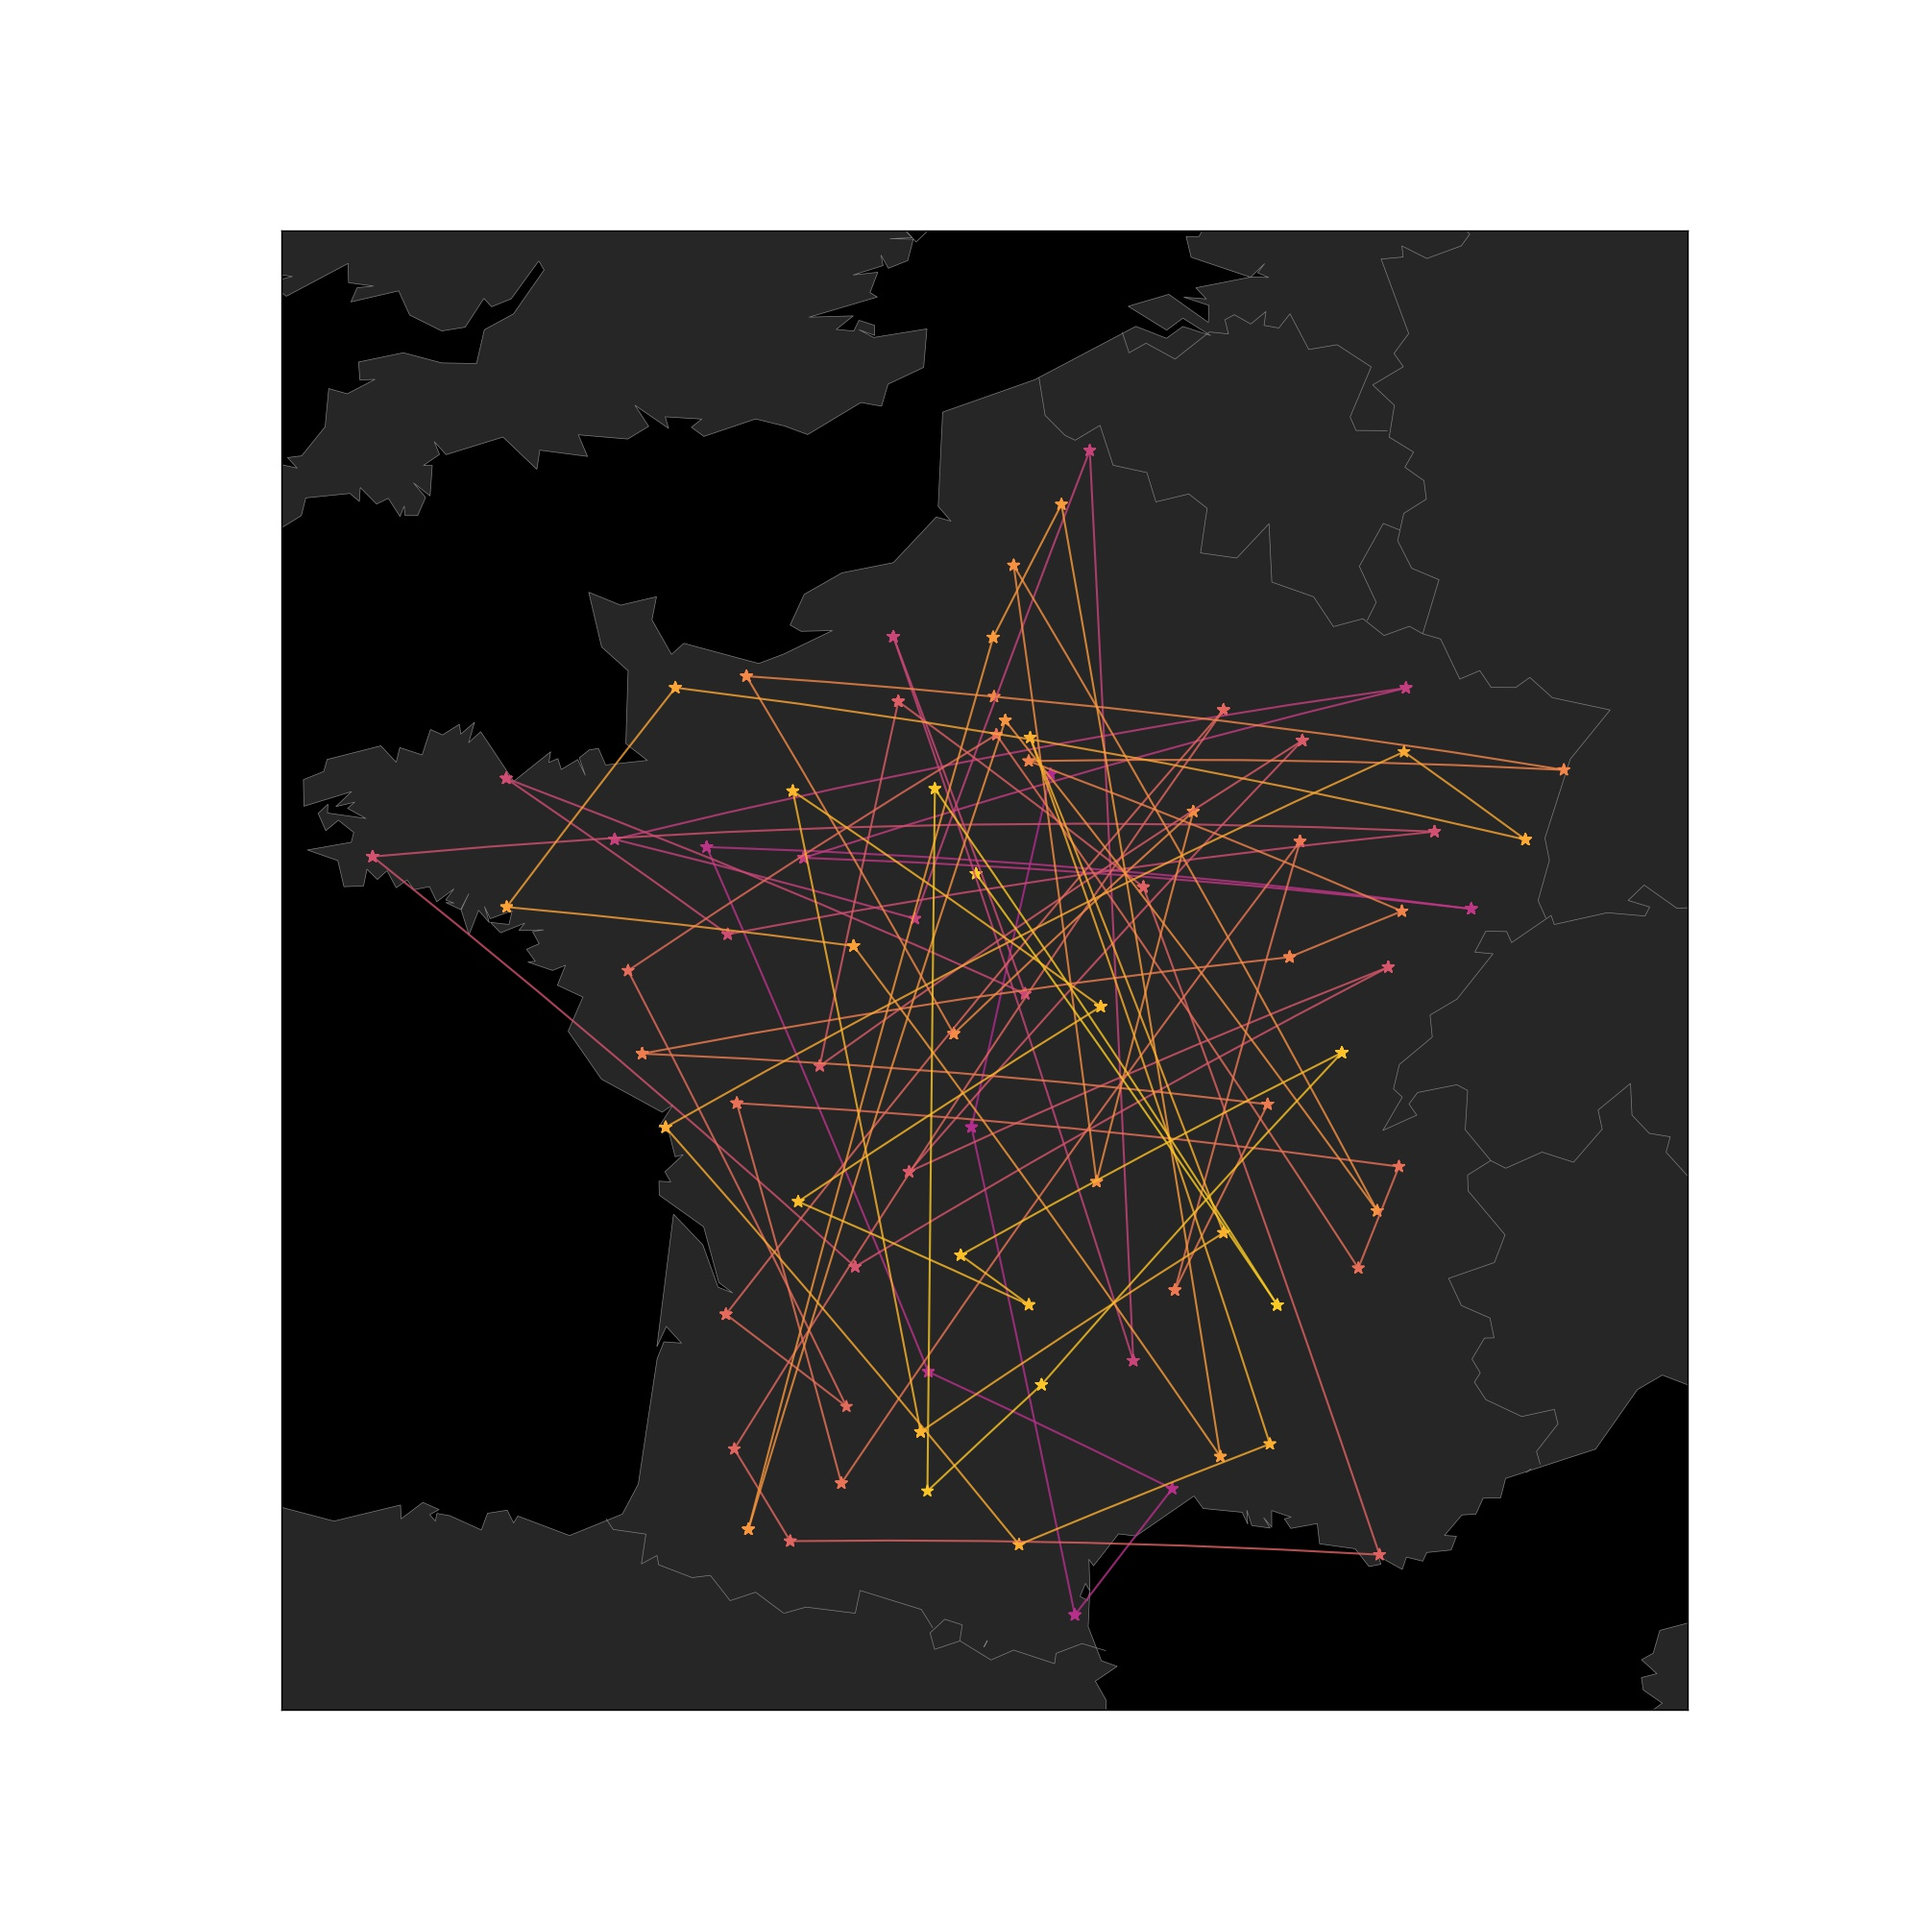
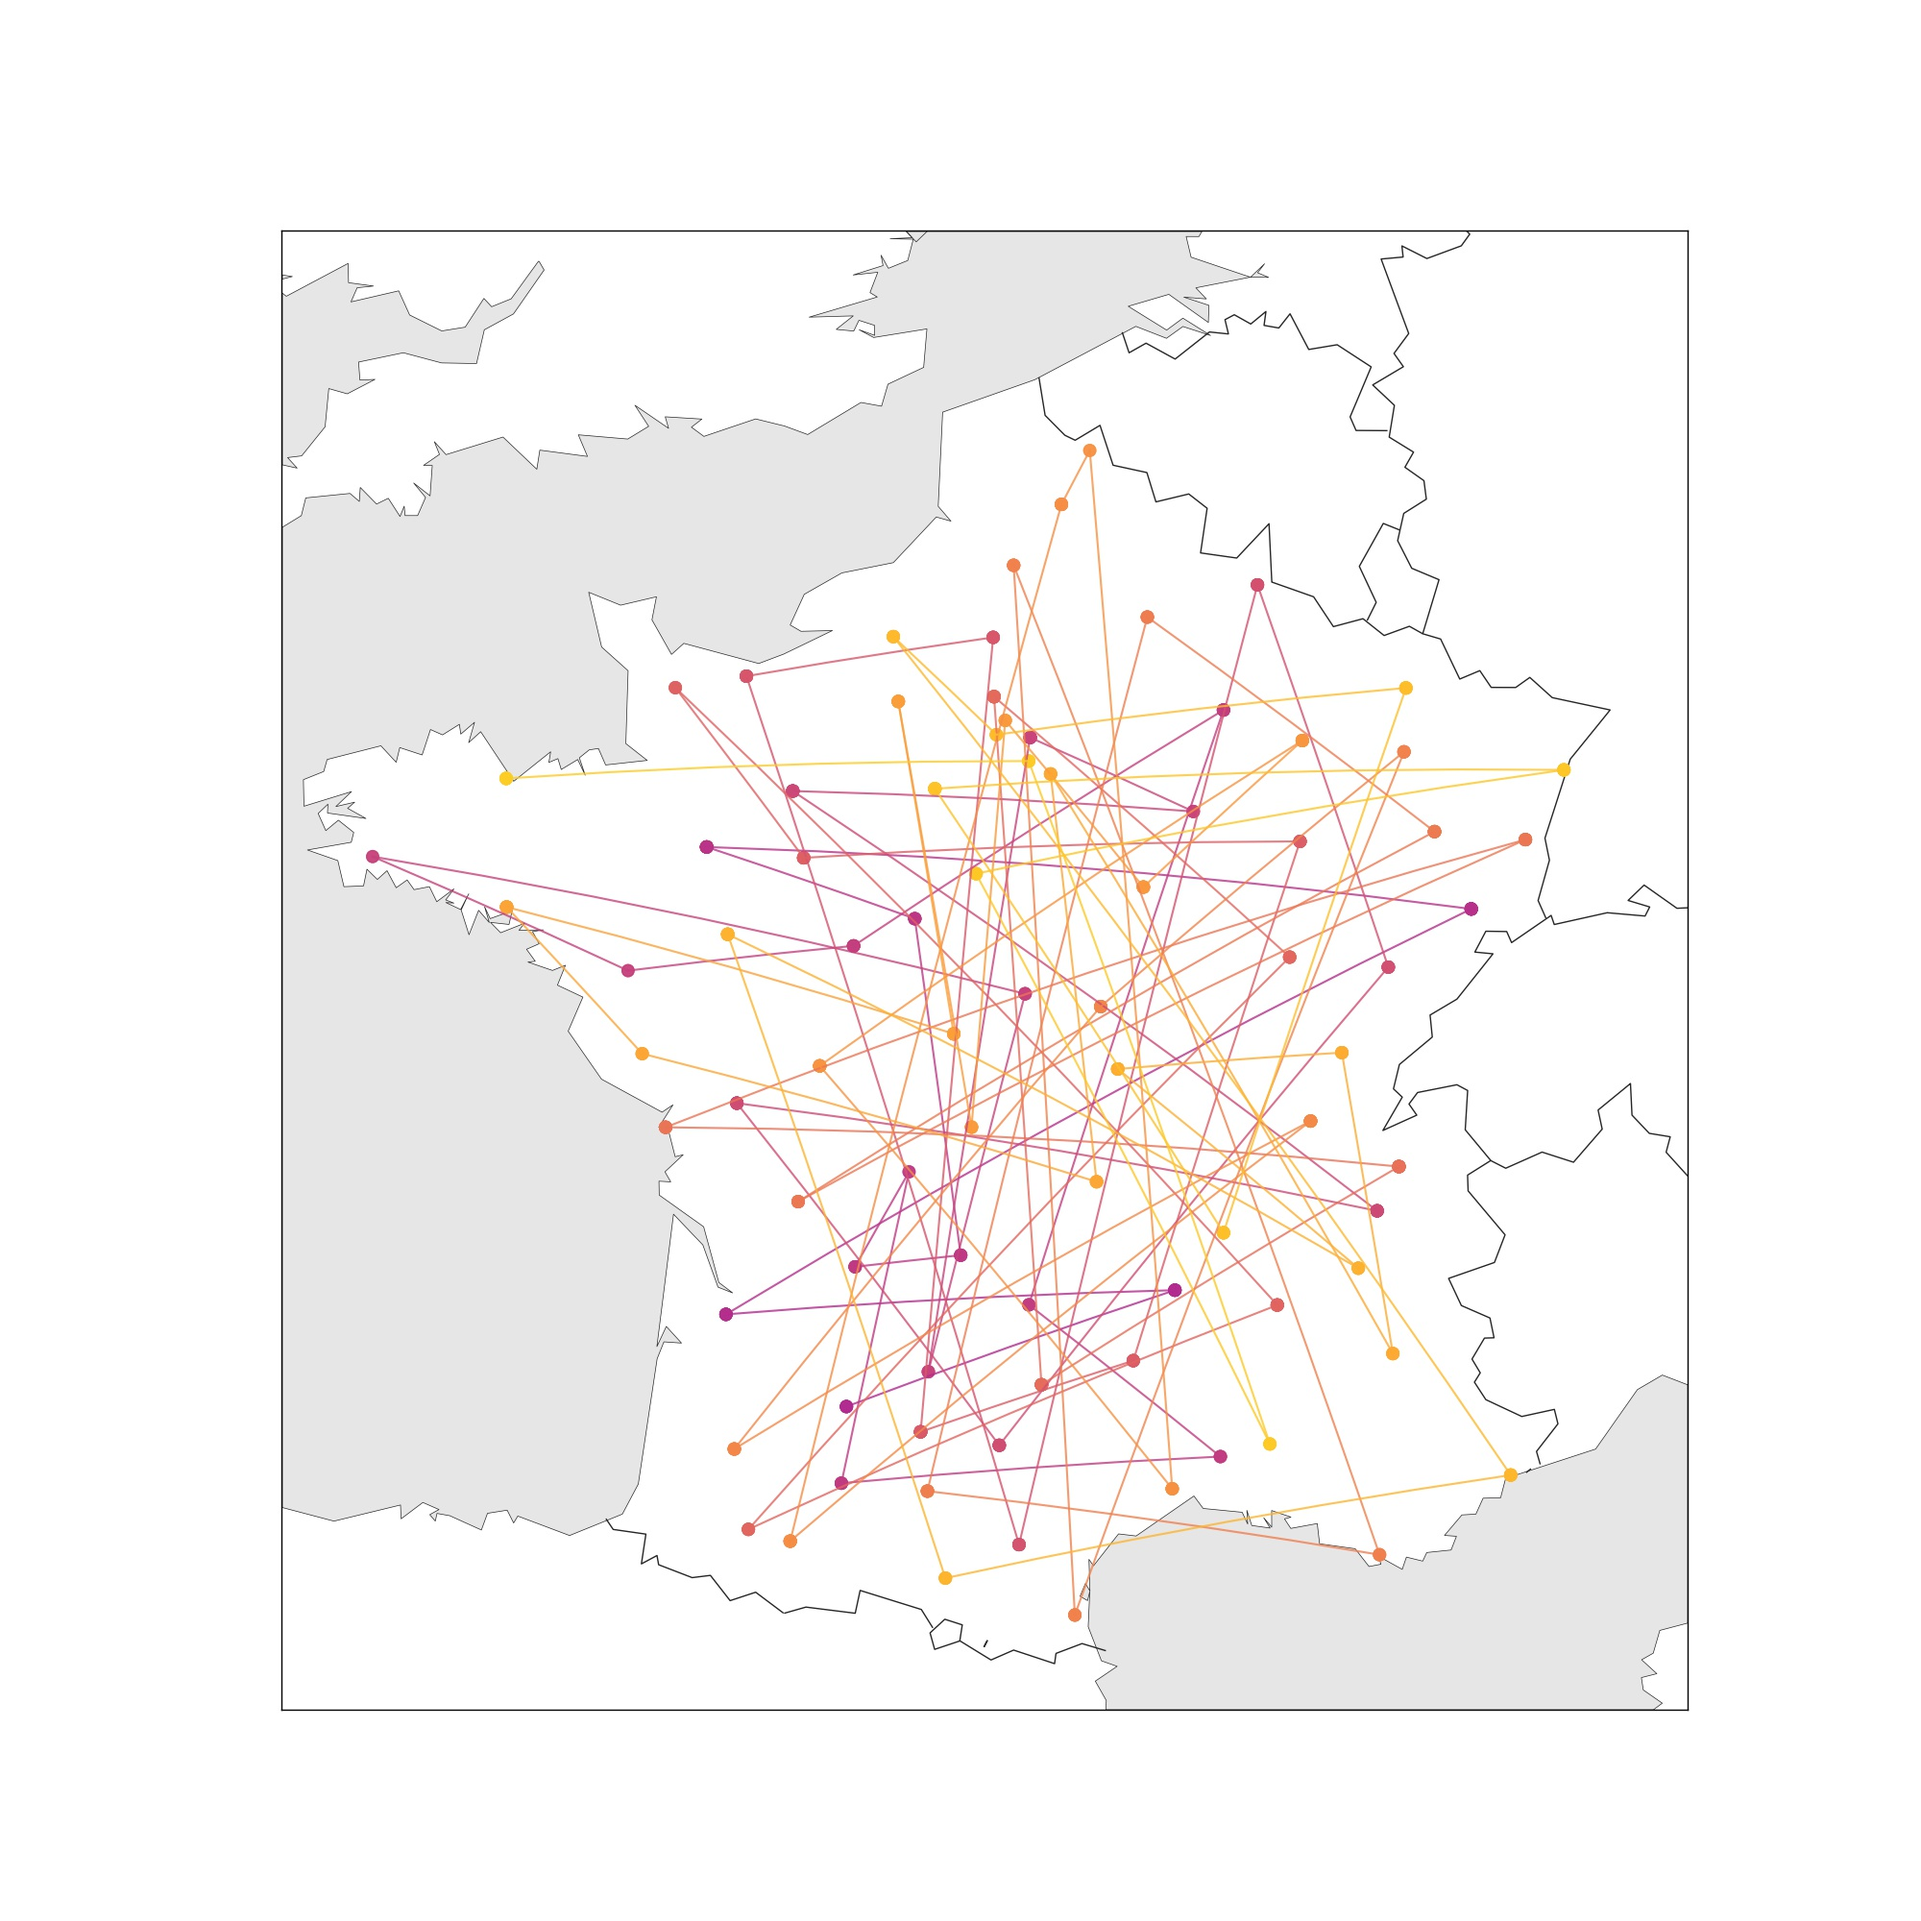
commit before web interface

diff --git a/app copy 2.py b/app copy 2.py
@@ -1,5 +1,4 @@
 import pandas as pd
-import googlemaps
 from itertools import combinations
 import numpy as np
 import random
@@ -16,16 +15,17 @@ all_waypoints = None
 db_connector = Connector()
 
 #API_KEY = '6cf28a3a-59c3-4c82-8cbf-8fa5e64b01da'
-#API_KEY = '3fd6041b-beda-4a79-9f1a-09bc263a1dfd'
+API_KEY = '3fd6041b-beda-4a79-9f1a-09bc263a1dfd'
 #API_KEY = 'd3f69ecb-68f5-477e-b1bb-d58208f936c5'
 #API_KEY = '78cc6f8e-68d6-450d-89d0-8a085b6c5af5'
 ##API_KEY = 'b84ebebd-476c-4204-b195-7ffeb67043e7'
 #API_KEY = 'cc3bc7b1-4c27-4176-aefd-15017c363178'
-API_KEY = '57f195e9-78a9-4fd7-a10c-312f0502d659'
+#API_KEY = '57f195e9-78a9-4fd7-a10c-312f0502d659'
 
 API_NAVITIA = "https://api.sncf.com/v1/coverage/sncf/journeys?key={3}&from=admin:fr:{0}&to=admin:fr:{1}&datetime={2}&min_nb_journeys=10"
-DURATION_SEARCH = "DURATION_SEARCH"
-CO2_SEARCH = "CO2_SEARCH"
+IS_MIN_CO2_SEARCH = True
+IS_FORCE_COMPUTE = False
+
 travel_results = []
 start_date = "20200730T152506"
 
@@ -48,7 +48,7 @@ def compute_fitness(solution):
         waypoint2 = int(solution[index])
         
         try:
-            if search_type == CO2_SEARCH:
+            if IS_MIN_CO2_SEARCH:
                 waypoints = waypoint_co2[frozenset([waypoint1, waypoint2])]
                 solution_fitness += waypoint_co2[waypoints]
             else:
@@ -177,78 +177,6 @@ def run_genetic_algorithm(generations=50, population_size=10):
 
         population = new_population
 
-waypoint_co2 = {}
-waypoint_durations = {}
-search_type = DURATION_SEARCH
-
-#get all prefectures referential
-results = db_connector.execute_query(sql.SQL_GET_ALL_PREFECTURE)
-all_waypoints = pd.DataFrame(results.fetchall())
-
-#check if journeys are already computed
-saved_waypoints = db_connector.execute_query('SELECT count(*) FROM journey')
-
-travel_date = datetime.now().strftime("%Y%m%dT%H%M%S")
-
-bad_waypoints = []
-saved_waypoints.fetchall()
-# if not len(saved_waypoints.fetchall()) == 0:
-if True == False:
-    print("le référentiel des voyage existe déjà")
-else :
-    k = 0 #todo : à supprimer
-    for (from_city, to_city) in combinations(all_waypoints[0].values, 2):
-        try:
-            k = k + 1
-            print(k)
-
-            if int(from_city) in bad_waypoints or int(to_city) in bad_waypoints:
-                continue
-
-            route = requests.get(API_NAVITIA.format(int(from_city), int(to_city), travel_date, API_KEY))
-            response = json.loads(route.text)
-
-            mid_duration = 0
-            mid_co2 = 0
-            for journey in response["journeys"]:
-                mid_duration += journey["duration"]
-                mid_co2 += journey["co2_emission"]["value"]
-
-            waypoint_co2[frozenset([from_city, to_city])] = mid_co2/len(response["journeys"])
-            waypoint_durations[frozenset([from_city, to_city])] = mid_duration/len(response["journeys"])
-        
-        except Exception as e:
-            print("Error with finding the route between %s and %s : %s" % (from_city, to_city, response["error"]["message"]))
-            if 'no destination point' == response["error"]["message"]:
-         #       db_connector.execute_nonquery(sql.SQL_INSERT_CITY_WITHOUT_STATION, [to_city])
-                bad_waypoints.append(int(to_city))
-            
-            if 'no origin point' == response["error"]["message"]:
-         #       db_connector.execute_nonquery(sql.SQL_INSERT_CITY_WITHOUT_STATION, [from_city])
-                bad_waypoints.append(int(from_city))
-            
-            for bad_insee_code in re.findall('The entry point: admin:fr:([0-9]+) is not valid', response["error"]["message"]):
-                if not int(bad_insee_code) in bad_waypoints:
-         #           db_connector.execute_nonquery(sql.SQL_INSERT_CITY_WITHOUT_STATION, [bad_insee_code])
-                    bad_waypoints.append(int(bad_insee_code))
-
-    #Enregistrement des trajets point à point
-    for (waypoint1, waypoint2) in waypoint_co2.keys():
-        waypoint = [waypoint1,
-                    waypoint2,
-                    str(waypoint_co2[frozenset([waypoint1, waypoint2])]),
-                    str(int(waypoint_durations[frozenset([waypoint1, waypoint2])]))]
-        db_connector.execute_nonquery(sql.SQL_INSERT_WAYPOINT, waypoint)
-    
-    #commit voyage dans la bdd
-    db_connector.commit()
-
-    #enregistrement des préfectures non référencées (pas de gare)
-    print(bad_waypoints)
-    for bad_city in bad_waypoints:
-        db_connector.execute_nonquery(sql.SQL_INSERT_CITY_WITHOUT_STATION, bad_city)
-    db_connector.commit()
-
 def store_section(description, geo_point_from, geo_point_to, section_type, duration = None, co2 = None):
     indentation = ''
     if section_type == 'DELAY' or section_type == 'SUB_SECTION':
@@ -289,6 +217,69 @@ def save_trip_section(from_city_insee, to_city_insee, best_travel):
 
 waypoint_co2 = {}
 waypoint_durations = {}
+
+#get all prefectures referential
+results = db_connector.execute_query(sql.SQL_GET_ALL_PREFECTURE)
+all_waypoints = pd.DataFrame(results.fetchall())
+
+#Vérification si les trajets péfecture à préfecture ont été déjà calculés
+saved_waypoints = db_connector.execute_query(sql.SQL_GET_WAYPOINTS)
+
+#Dans le précalcul du trajet optimal, utilisation de la date courante
+travel_date = datetime.now().strftime("%Y%m%dT%H%M%S")
+bad_waypoints = []
+
+if saved_waypoints.rowcount > 0 and not IS_FORCE_COMPUTE:
+    print("le référentiel des voyage existe déjà")
+else :
+    for (from_city, to_city) in combinations(all_waypoints[0].values, 2):
+        try:
+            if int(from_city) in bad_waypoints or int(to_city) in bad_waypoints:
+                continue
+
+            route = requests.get(API_NAVITIA.format(int(from_city), int(to_city), travel_date, API_KEY))
+            response = json.loads(route.text)
+
+            mid_duration = 0
+            mid_co2 = 0
+            for journey in response["journeys"]:
+                mid_duration += journey["duration"]
+                mid_co2 += journey["co2_emission"]["value"]
+
+            waypoint_co2[frozenset([from_city, to_city])] = mid_co2/len(response["journeys"])
+            waypoint_durations[frozenset([from_city, to_city])] = mid_duration/len(response["journeys"])
+        
+        except Exception as e:
+            print("Error with finding the route between %s and %s : %s" % (from_city, to_city, response["error"]["message"]))
+            if 'no destination point' == response["error"]["message"]:
+                bad_waypoints.append(int(to_city))
+            
+            if 'no origin point' == response["error"]["message"]:
+                bad_waypoints.append(int(from_city))
+            
+            for bad_insee_code in re.findall('The entry point: admin:fr:([0-9]+) is not valid', response["error"]["message"]):
+                if not int(bad_insee_code) in bad_waypoints:
+                    bad_waypoints.append(int(bad_insee_code))
+
+    #Enregistrement des trajets point à point (préfecture à préfecture)
+    for (waypoint1, waypoint2) in waypoint_co2.keys():
+        waypoint = [waypoint1,
+                    waypoint2,
+                    str(waypoint_co2[frozenset([waypoint1, waypoint2])]),
+                    str(int(waypoint_durations[frozenset([waypoint1, waypoint2])]))]
+        db_connector.execute_nonquery(sql.SQL_INSERT_WAYPOINT, waypoint)
+    
+    #commit trajets unitaires dans la bdd
+    db_connector.commit()
+
+    #enregistrement des préfectures non trouvée (pas de gare)
+    print(bad_waypoints)
+    for bad_city in bad_waypoints:
+        db_connector.execute_nonquery(sql.SQL_INSERT_CITY_WITHOUT_STATION, str(bad_city))
+    db_connector.commit()
+
+waypoint_co2 = {}
+waypoint_durations = {}
 processed_waypoints = set()
 
 waypoints = db_connector.execute_query(sql.SQL_GET_WAYPOINTS)
@@ -313,22 +304,28 @@ print('Départ du calcul du voyage à %s' % (datetime_str_to_datetime_str(travel
 
 db_connector.execute_nonquery(sql.SQL_REINIT_FRENCH_TRIP)
 for i in range(len(top_journeys)-1):
-#for journey in top_journeys:
-    from_city_insee = top_journeys[i]
-    to_city_insee = top_journeys[i+1]
-    route = requests.get(API_NAVITIA.format( from_city_insee, to_city_insee, travel_date, API_KEY))
-    travels = json.loads(route.text)
+    try:
+        from_city_insee = top_journeys[i]
+        to_city_insee = top_journeys[i+1]
+        route = requests.get(API_NAVITIA.format( int(from_city_insee), int(to_city_insee), travel_date, API_KEY))
+        travels = json.loads(route.text)
 
-    best_travel = travels["journeys"][0] 
-    for travel in travels["journeys"]:
-        if search_type == CO2_SEARCH and float(best_travel['co2_emission']['value']) > float(travel['co2_emission']['value']):
-            best_travel = travel
-        elif  best_travel['arrival_date_time'] > travel['arrival_date_time']:
+        #Contrôle des voyage reçus pour identifier le plus adapté à recherche
+        best_travel = travels["journeys"][0] 
+        for travel in travels["journeys"]:
+            if IS_MIN_CO2_SEARCH and float(best_travel['co2_emission']['value']) > float(travel['co2_emission']['value']):
                 best_travel = travel
+            elif  best_travel['arrival_date_time'] > travel['arrival_date_time']:
+                    best_travel = travel
 
-    save_trip_section(from_city_insee, to_city_insee, best_travel)
+        #sauvegarde du trajet 'i' en base
+        save_trip_section(from_city_insee, to_city_insee, best_travel)
 
-    travel_date = best_travel['arrival_date_time']
+        #le prochain trajet devra avoir une date de départ > à la date de ce trajet 
+        travel_date = best_travel['arrival_date_time']
+
+    except Exception as e:
+        print ("!!  Fail to compute travel between '%s' and '%s'" % (from_city_insee, to_city_insee) )
 
 db_connector.commit()
 

diff --git a/visualization.py b/visualization.py
@@ -41,10 +41,10 @@ m = Basemap(projection='merc',
             urcrnrlon = 9,
             resolution='l')
 
-m.drawmapboundary(fill_color='black')
-m.fillcontinents(color=[0.15,0.15,0.15],lake_color='black',zorder=1)
-m.drawcoastlines(linewidth=0.5,color=[0.5,0.5,0.5])
-m.drawcountries(linewidth=0.5,color=[0.5,0.5,0.5])
+m.drawmapboundary(fill_color=[0.9,0.9,0.9])
+m.fillcontinents(color='white',lake_color=[0.9,0.9,0.9],zorder=1)
+m.drawcoastlines(linewidth=0.5,color=[0.15,0.15,0.15])
+m.drawcountries(linewidth=1,color=[0.15,0.15,0.15])
 
 x,y = m(lat,long)
 
@@ -54,9 +54,10 @@ for i in range(len(x)-1):
     y1 = [long[i],long[i+1]]
     m.drawgreatcircle(x1[0],y1[0],x1[1],y1[1],linewidth=1.5,color=col,alpha=0.8)
     
-plt.scatter(x, y, marker='*', c = range(len(x)), cmap=new_cmap,alpha=0.8,s=80,zorder=2)
+plt.scatter(x, y, c = range(len(x)), cmap=new_cmap,alpha=0.8,s=80,zorder=2)
 
 fig.savefig('travel_map.jpg')
+fig.show()
 
 
 

diff --git a/bdd_initialisation.py b/bdd_initialisation.py
@@ -108,3 +108,8 @@ with open(CITY_REFERENTIAL_OUT_PATH, mode="r", encoding="utf-8") as file :
     print('Base de donnée initialisée')
 
 
+# def save_journeys():
+    
+#     waypoints = db_connector.execute_nonquery(requests.SQL_INSERT_PREFECTURE, values)
+    
+#     SQL_GET_WAYPOINTS
